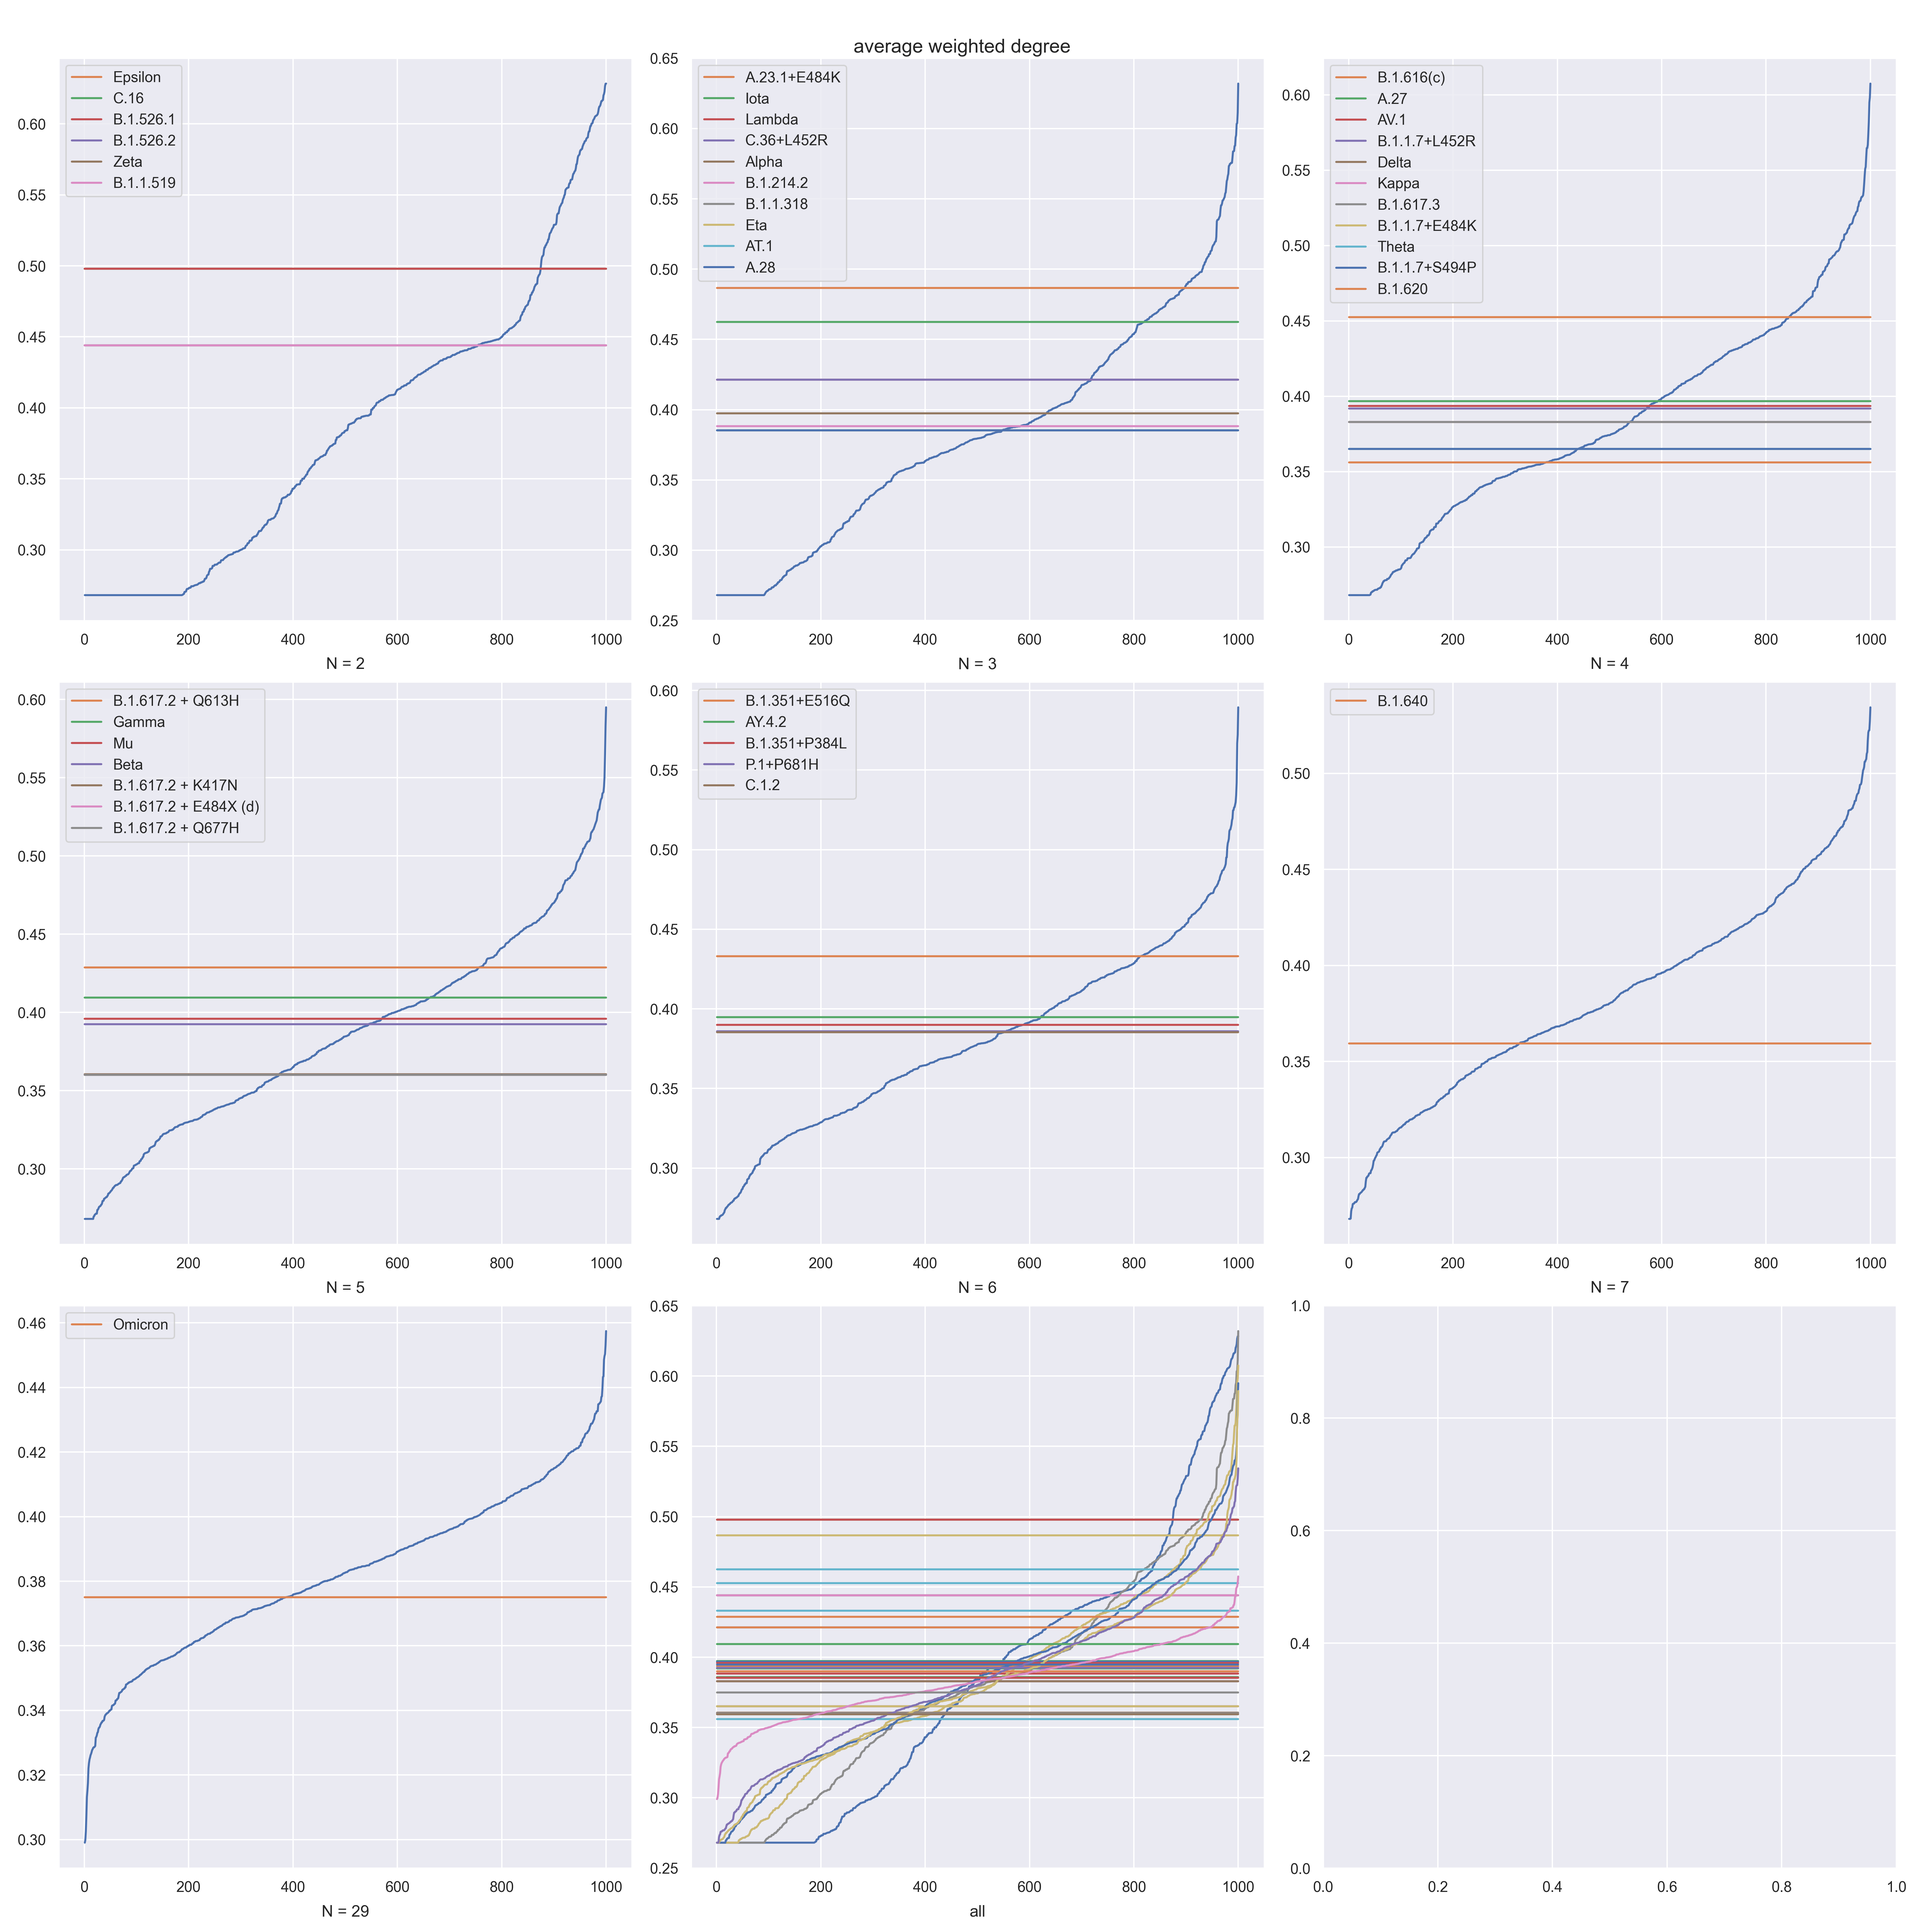
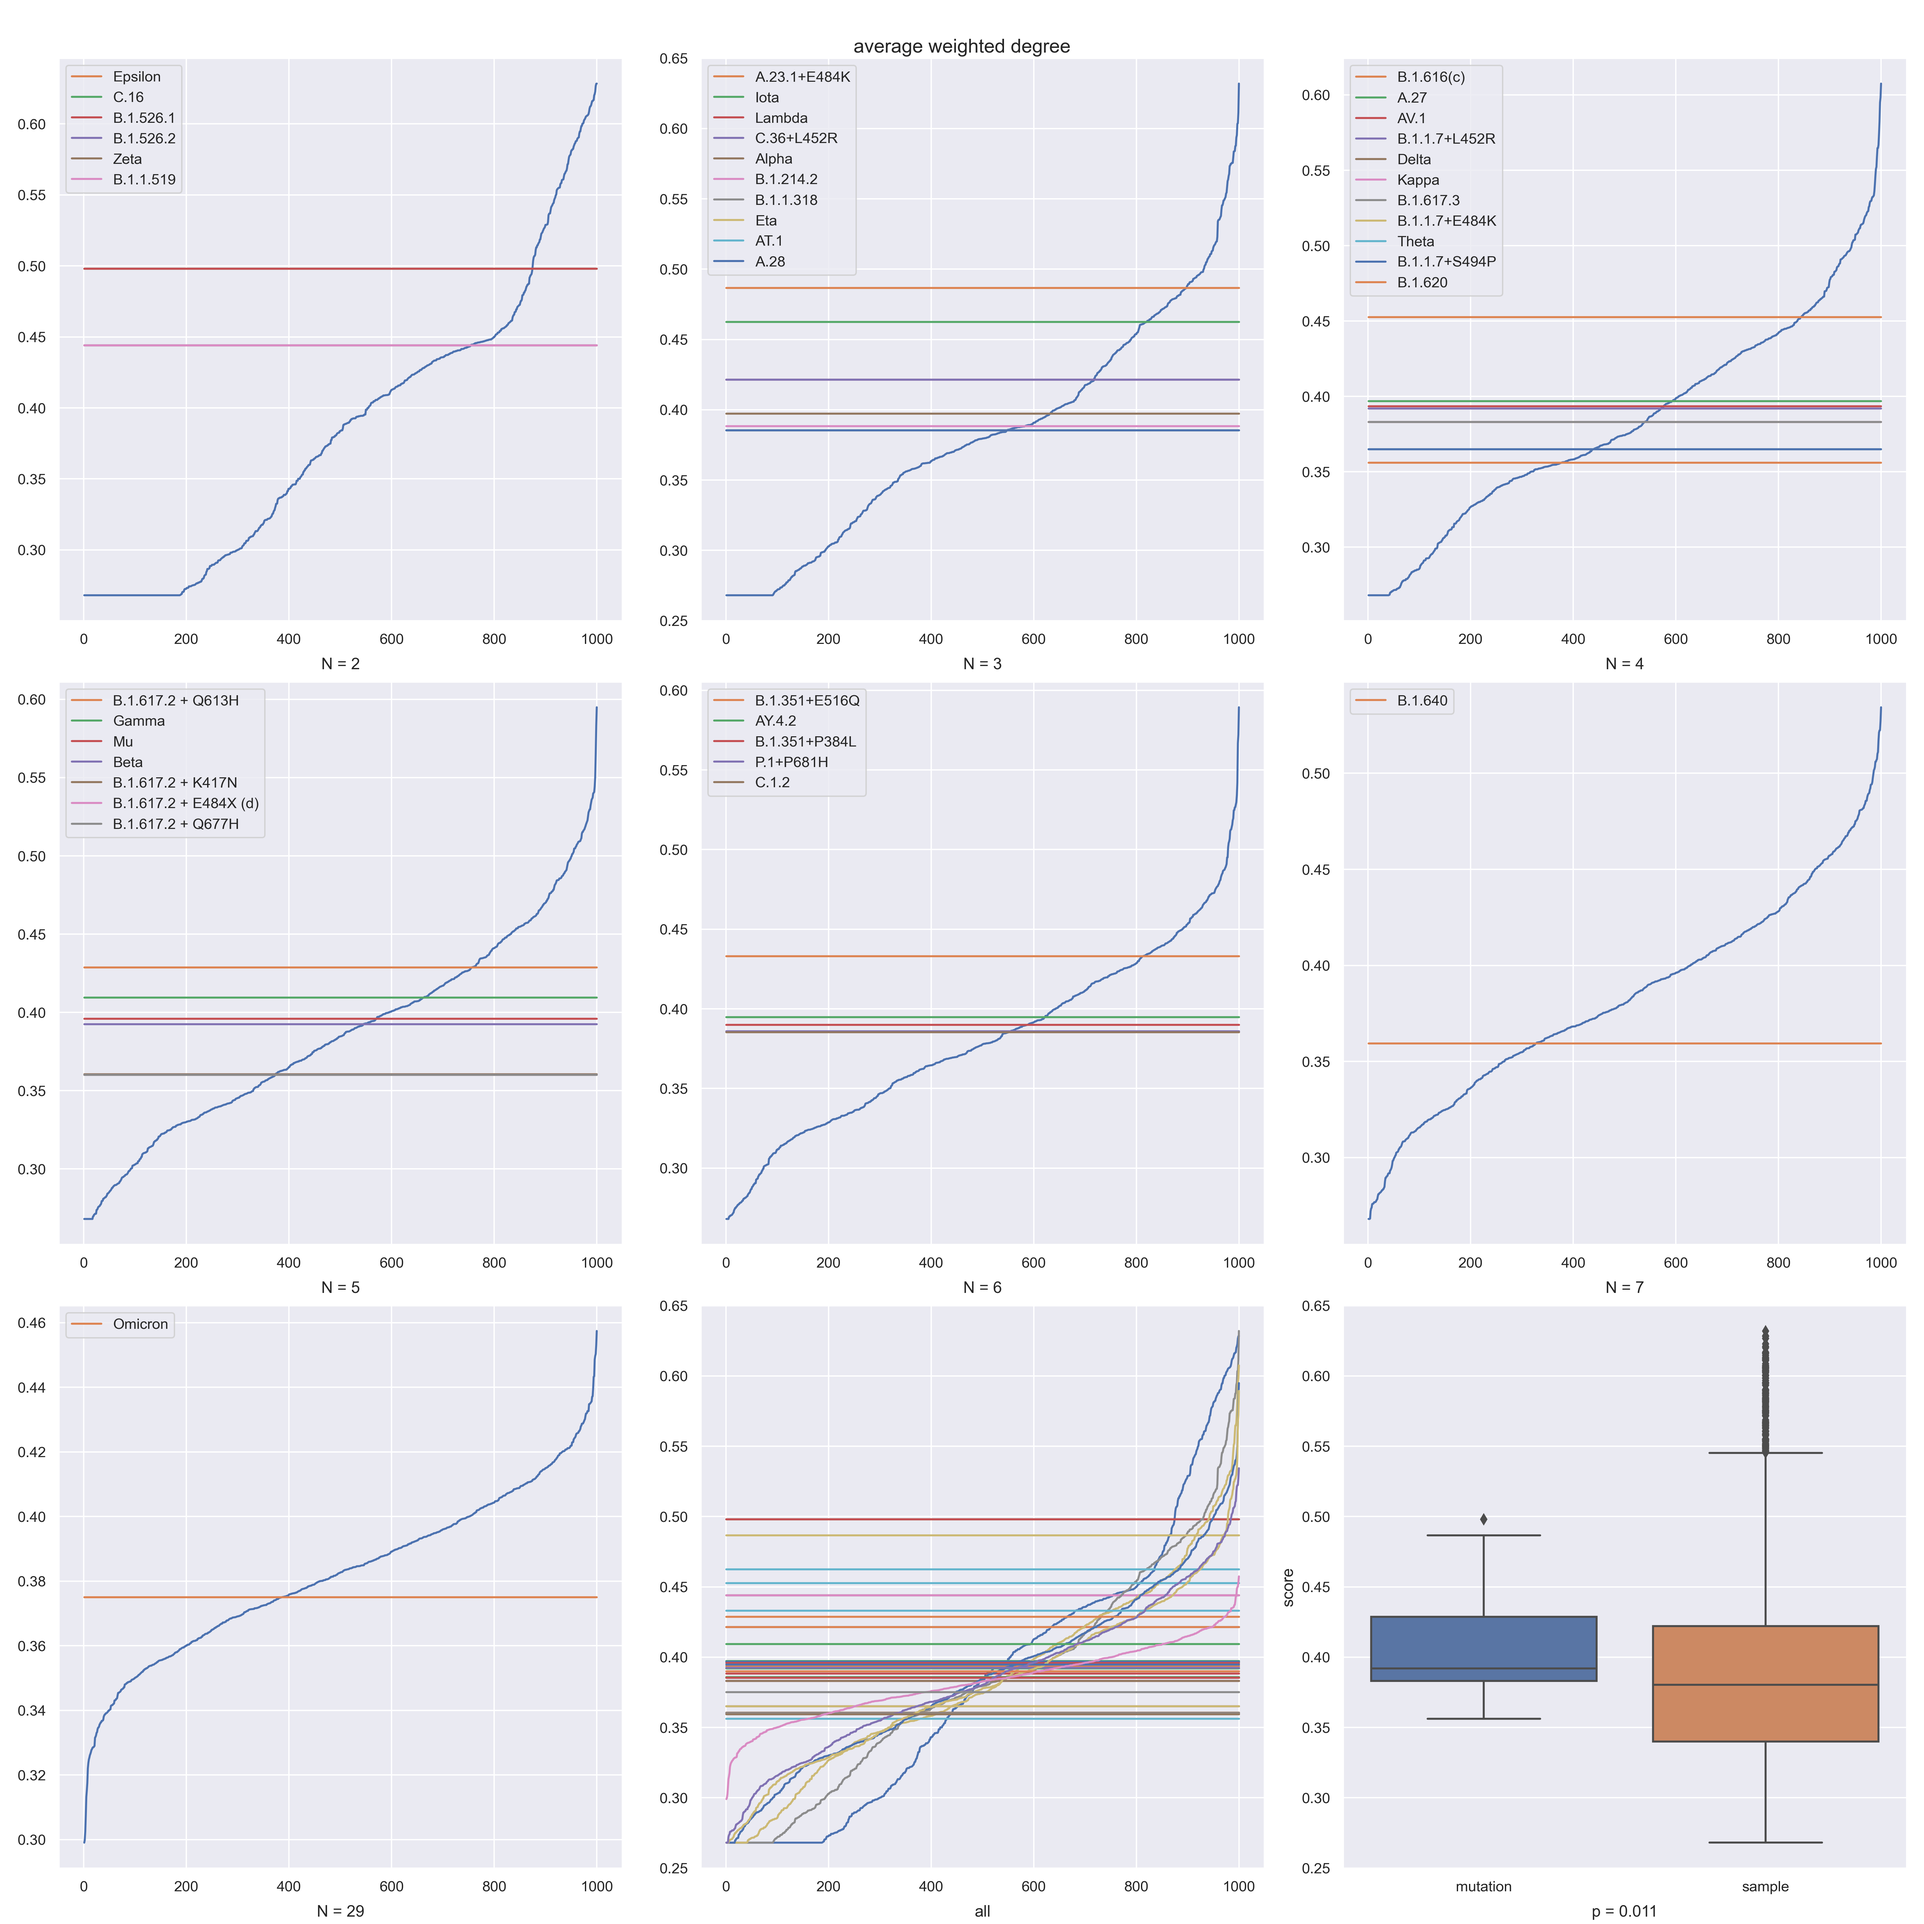
给组图添加箱线图

diff --git a/v2/output_procon_analysis.py b/v2/output_procon_analysis.py
@@ -766,11 +766,11 @@ class ProConNetwork:
         # self._plot_procon_distribution()  # 分数分布图
         # self._plot_degree_distribuition()  # 度分布
         # self._plot_node_box()  # 箱线图：中心性 + 保守性
-        self._plot_edge_box()  # 共保守性  TODO: 使用采样的方式
+        # self._plot_edge_box()  # 共保守性  TODO: 使用采样的方式
         # self.calculate_average_shortest_path_length()
 
         # 以组为单位的图
-        # self._group_plot_centtrality()
+        self._group_plot_centtrality()
 
     def random_sample_analysis(self, aas: list, groups, N=1000):
         """使用随机采样的形式，分析实验组和对照组的区别
@@ -953,7 +953,7 @@ class ProConNetwork:
                 fig: plt.Figure = plt.figure(figsize=(20, 20))
                 axes: List[plt.Axes] = fig.subplots(3, 3, )
                 axes = [j for i in axes for j in i]
-                ax_all_in_one = axes[7]
+                ax_all_in_one = axes[7]  # 重叠子图
                 for i, N in enumerate(grp_sample_scores.keys()):
                     ax: plt.Axes = axes[i]
                     sample_mean_score = grp_sample_scores[N]
@@ -972,6 +972,17 @@ class ProConNetwork:
                     ax.set_title(f"N = {N}", y=-0.1)
                     ax.legend()
                 ax_all_in_one.set_title(f"all", y=-0.1)
+                # 箱线图
+                _s1 = grp_mean_score  # 每一组的分数
+                _s2 = np.array(list(grp_sample_scores.values())).reshape(-1).tolist()  # 采样的分数
+                _plot_data = pd.DataFrame(
+                    {"score": _s1 + _s2, "label": ["mutation"] * len(_s1) + ["sample"] * len(_s2)},
+                )
+                sns.boxplot(data=_plot_data, x="label", y="score", ax=axes[-1])
+                p_value = mannwhitneyu(_s1, _s2).pvalue
+                axes[-1].set_title(f"p = {p_value:.3f}", y=-0.1)
+                axes[-1].set_xlabel("")
+
 
             fig.suptitle(fig_name, )
             fig.tight_layout()
@@ -1005,6 +1016,8 @@ class ProConNetwork:
 
         def calculate_page_rank(grp):
             return [self.page_rank[aa] for aa in grp]
+        def calculate_conservation(grp):
+            return [self.G.nodes[aa]["size"] for aa in grp]
 
         calculate_group_and_sample_score(groups, group_count_sample, calculate_degree_centrality, "degree centrality")
         calculate_group_and_sample_score(groups, group_count_sample, calculate_betweenness_centrality,
@@ -1014,6 +1027,7 @@ class ProConNetwork:
         calculate_group_and_sample_score(groups, group_count_sample, calculate_avg_weighted_degree,
                                          "average weighted degree")
         calculate_group_and_sample_score(groups, group_count_sample, calculate_page_rank, "page rank")
+        calculate_group_and_sample_score(groups, group_count_sample, calculate_conservation, "conservation")
 
 
 if __name__ == '__main__':
